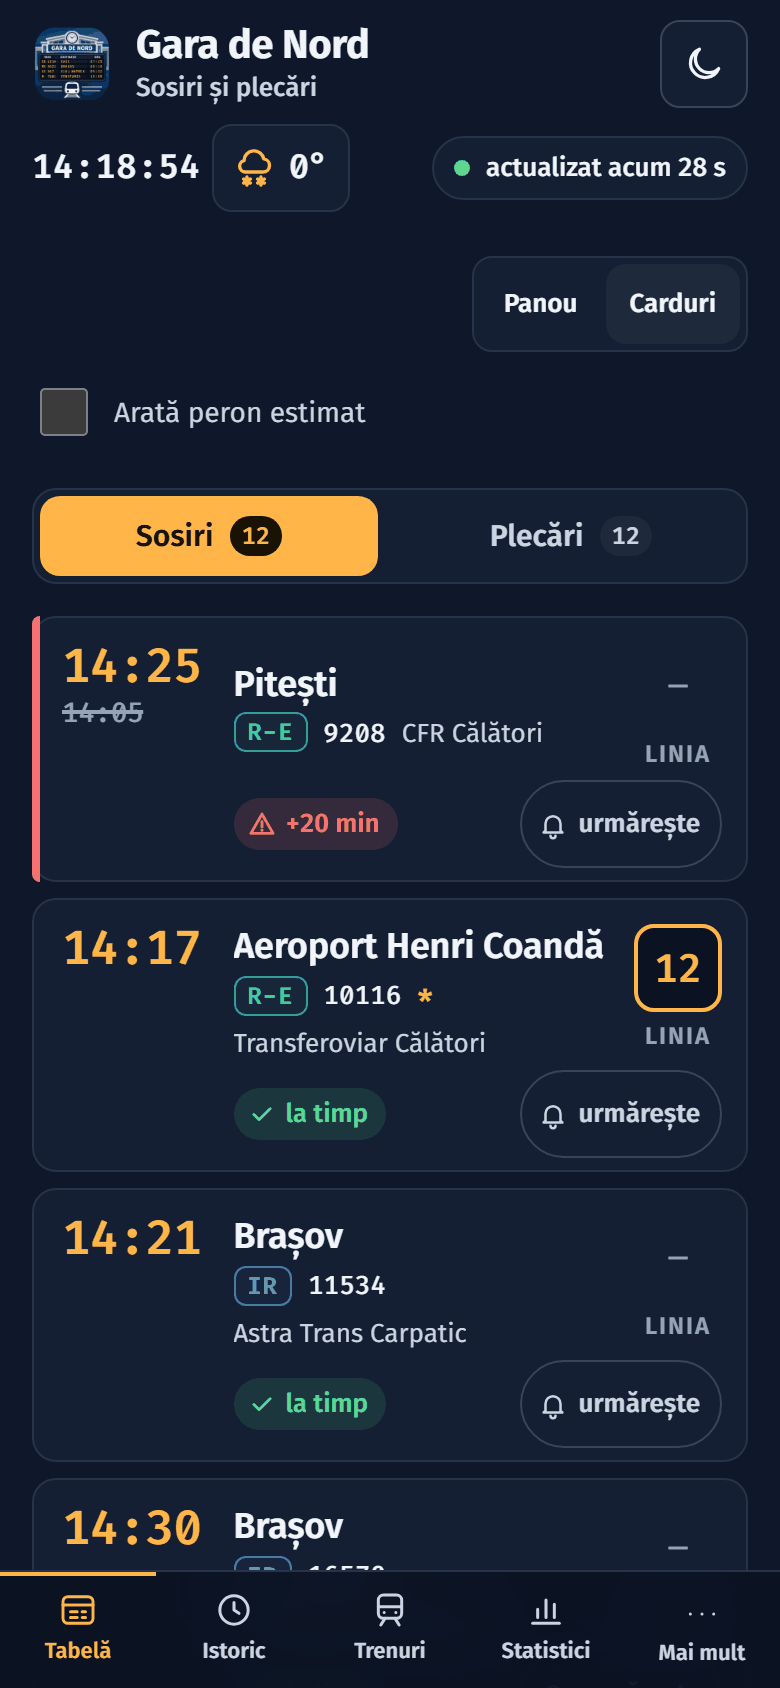
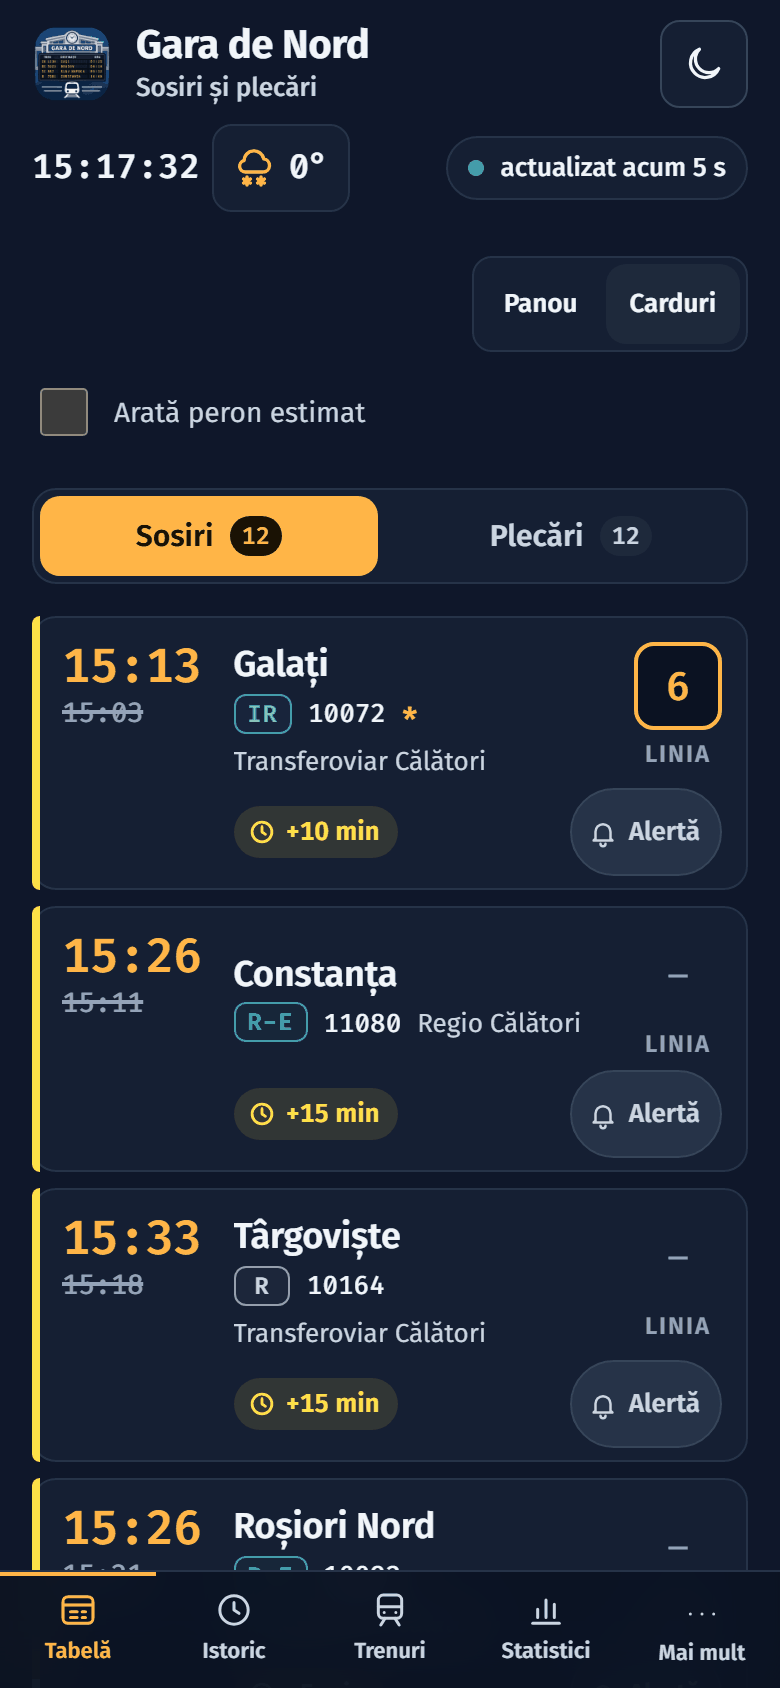
release: Beta 1.82 (spațiu în eticheta butonului „Alertă” + capturile README refăcute)

diff --git a/web/app.js b/web/app.js
@@ -266,7 +266,7 @@
     c.plat.setAttribute("aria-label", known ? T("board.platAria", { p: t.platform }) : T("board.platNone"));
     c.plat.title = known ? T("board.platAria", { p: t.platform }) : T("board.platNoneTitle");
 
-    c.followLabel = (t.train_type || "") + " " + t.train_no + " " + where + name;
+    c.followLabel = (t.train_type || "") + " " + t.train_no + " " + where + " " + name;
     applyFollow(c);
 
     var sig = (read ? d : "?") + "|" + (known ? t.platform : "-");

diff --git a/web/ui2.js b/web/ui2.js
@@ -476,7 +476,7 @@
   }
 
   // lazy chart layer (charts3.js/css): pages with charts only, never in the SW shell; resolves null if it can't load
-  var CHARTS_V = "1.81";
+  var CHARTS_V = "1.82";
   var chartsP = null;
   function charts() {
     if (App.charts3) return Promise.resolve(App.charts3);

diff --git a/web/sw.js b/web/sw.js
@@ -9,7 +9,7 @@
 // Bump VERSION when the shell list changes; old caches are deleted on activate.
 "use strict";
 
-var VERSION = "v58";
+var VERSION = "v59";
 var SHELL_CACHE = "tabela-shell-" + VERSION;
 var BOARD_CACHE = "tabela-board-" + VERSION;
 var BOARD_URL = "/api/board";

diff --git a/CHANGELOG.md b/CHANGELOG.md
@@ -5,6 +5,21 @@ tabelagn.online (până la 1.79: tabelacfr.ddns.net). Cele mai noi versiuni sunt
 
 © 2026 Andy217Ace · Date preluate de la CFR (cfr.ro) — proiect independent, neafiliat CFR
 
+## Beta 1.82 — 2026-11-28
+### Reparat
+- **Cititoarele de ecran** citeau numele trenului lipit de stație la butonul „Alertă” („IR 10072 dinGalați”); acum spun „IR 10072 din Galați”.
+- Aceeași corectură pentru plecări („spre Brașov”) și în engleză („from”/„to”).
+### Documentație
+- **Capturile și GIF-ul din README** refăcute după 1.81: se vede noul buton „Alertă” (gri oprit, verde pornit) și paginile aliniate.
+- Capturile sunt făcute tot doar din pagini publice, cu `scripts/make_demo_media.py`.
+- Fără alte schimbări în aplicație.
+### English
+- **Screen readers** read the train name glued to the station on the "Alert" button ("IR 10072 fromGalați"); it now says "IR 10072 from Galați".
+- The same fix for departures ("to Brașov") and in Romanian.
+- **README screenshots and GIF** rebuilt after 1.81: they show the new "Alert" button (grey off, green on) and the aligned pages.
+- The screenshots still come only from public pages, via `scripts/make_demo_media.py`.
+- No other changes to the app.
+
 ## Beta 1.81 — 2026-11-28
 ### Schimbat
 - **Butonul de urmărire a unui tren se numește acum „Alertă” și se vede mult mai bine:** gri plin când e oprit, verde plin (verdele de „la timp”) cu clopoțel plin când e pornit.
